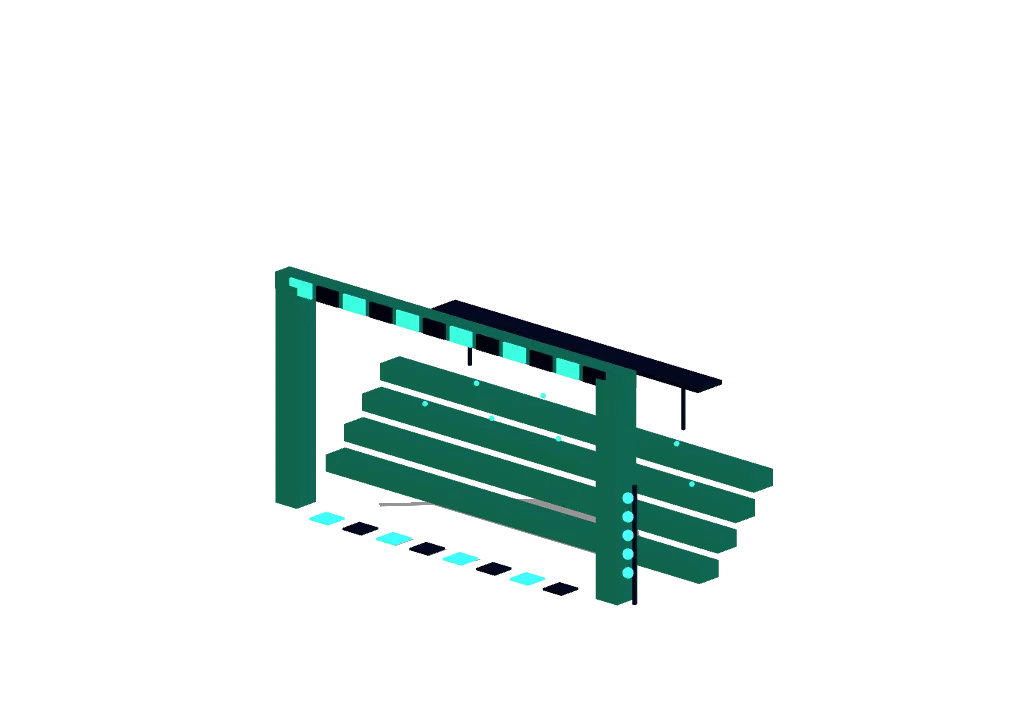
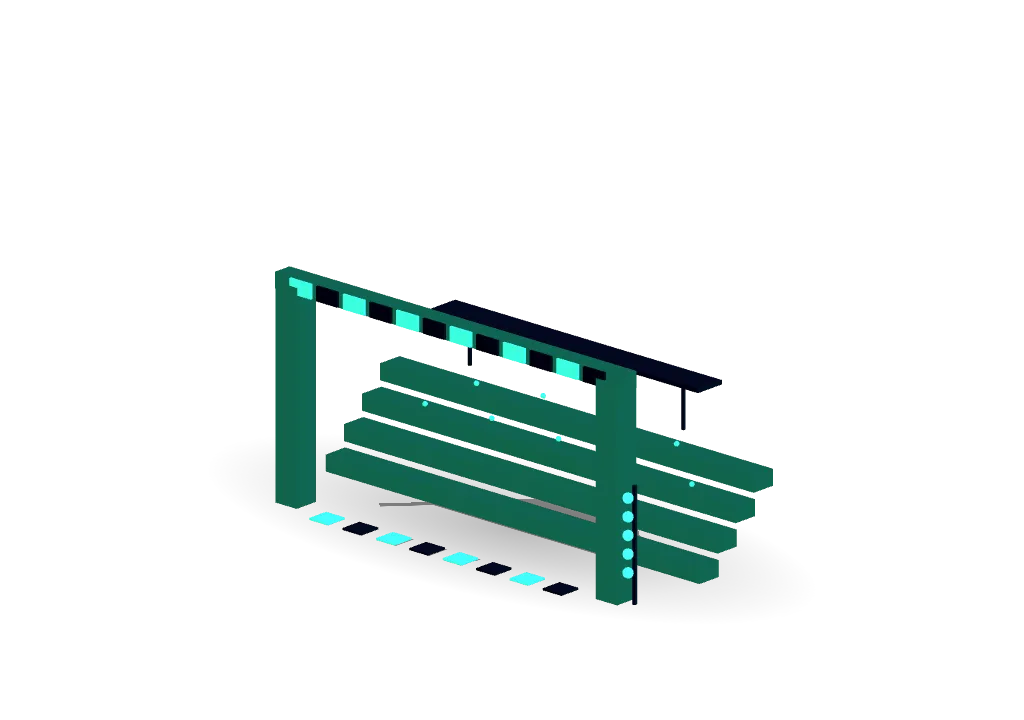
fix: add soft building contact shadows

diff --git a/redline3d/src/landing/building-renderer.test.ts b/redline3d/src/landing/building-renderer.test.ts
@@ -160,6 +160,30 @@ const findChunk = (bytes: Uint8Array, type: string) => {
 };
 
 describe("landing building renderer", () => {
+  it("adds a soft elliptical contact shadow without changing the approved camera or lighting rig", () => {
+    const rendererSource = Object.values(rendererSourceFiles)[0] as string;
+
+    expect(rendererSource).toContain("new THREE.OrthographicCamera(-28.45, 28.45, 20, -20, 0.1, 200)");
+    expect(rendererSource).toContain("camera.position.set(38, 30, 42)");
+    expect(rendererSource).toContain("camera.lookAt(0, 10, 0)");
+    expect(rendererSource).toContain("new THREE.DirectionalLight(0x4c1d95, 4.2)");
+    expect(rendererSource).toContain("key.position.set(-28, 42, 30)");
+    expect(rendererSource).toContain("new THREE.DirectionalLight(0x27e7ff, 3.3)");
+    expect(rendererSource).toContain("rim.position.set(34, 24, -26)");
+
+    expect(rendererSource).toContain("createRadialGradient(128, 128, 0, 128, 128, 128)");
+    expect(rendererSource).toContain('addColorStop(0, "rgba(0, 0, 0, 0.26)")');
+    expect(rendererSource).toContain('addColorStop(1, "rgba(0, 0, 0, 0)")');
+    expect(rendererSource).toContain("new THREE.CanvasTexture(contactShadowCanvas)");
+    expect(rendererSource).toContain("new THREE.MeshBasicMaterial({");
+    expect(rendererSource).toContain("map: contactShadowTexture");
+    expect(rendererSource).toContain("transparent: true");
+    expect(rendererSource).toContain("depthWrite: false");
+    expect(rendererSource).toContain("new THREE.PlaneGeometry(42, 20)");
+    expect(rendererSource).toContain("contactShadow.position.y = 0.03");
+    expect(rendererSource).toContain("contactShadow.renderOrder = -2");
+  });
+
   it("uses the approved dark-violet key light instead of the rejected pale-pink key", () => {
     const rendererSource = Object.values(rendererSourceFiles)[0] as string;
 

diff --git a/redline3d/src/landing/building-renderer.ts b/redline3d/src/landing/building-renderer.ts
@@ -50,6 +50,30 @@ const rim = new THREE.DirectionalLight(0x27e7ff, 3.3);
 rim.position.set(34, 24, -26);
 scene.add(rim);
 
+const contactShadowCanvas = document.createElement("canvas");
+contactShadowCanvas.width = 256;
+contactShadowCanvas.height = 256;
+const contactShadowContext = contactShadowCanvas.getContext("2d");
+if (!contactShadowContext) throw new Error("Could not create contact shadow canvas context.");
+const contactShadowGradient = contactShadowContext.createRadialGradient(128, 128, 0, 128, 128, 128);
+contactShadowGradient.addColorStop(0, "rgba(0, 0, 0, 0.26)");
+contactShadowGradient.addColorStop(0.38, "rgba(0, 0, 0, 0.16)");
+contactShadowGradient.addColorStop(0.68, "rgba(0, 0, 0, 0.07)");
+contactShadowGradient.addColorStop(1, "rgba(0, 0, 0, 0)");
+contactShadowContext.fillStyle = contactShadowGradient;
+contactShadowContext.fillRect(0, 0, 256, 256);
+const contactShadowTexture = new THREE.CanvasTexture(contactShadowCanvas);
+const contactShadowMaterial = new THREE.MeshBasicMaterial({
+  map: contactShadowTexture,
+  transparent: true,
+  depthWrite: false,
+});
+const contactShadow = new THREE.Mesh(new THREE.PlaneGeometry(42, 20), contactShadowMaterial);
+contactShadow.rotation.x = -Math.PI / 2;
+contactShadow.position.y = 0.03;
+contactShadow.renderOrder = -2;
+scene.add(contactShadow);
+
 const shadow = new THREE.Mesh(new THREE.PlaneGeometry(42, 32), new THREE.ShadowMaterial({ color: 0x000000, opacity: 0.42 }));
 shadow.rotation.x = -Math.PI / 2;
 shadow.receiveShadow = true;
